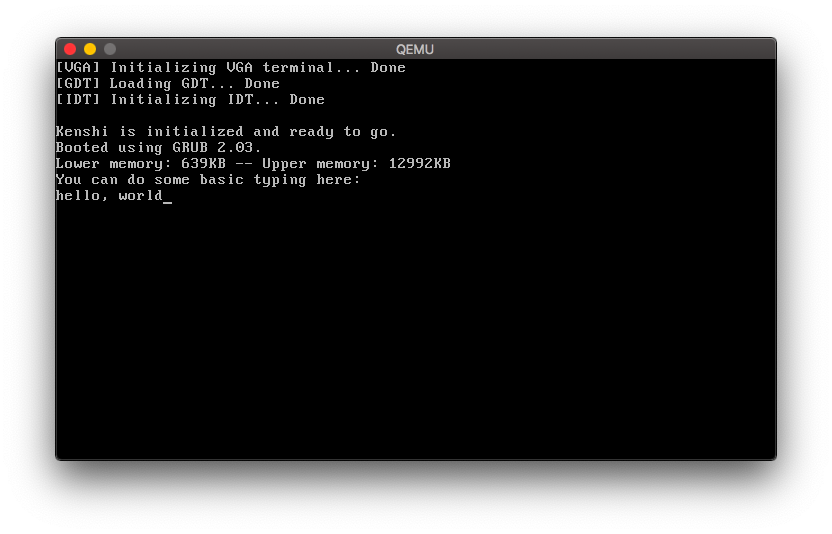
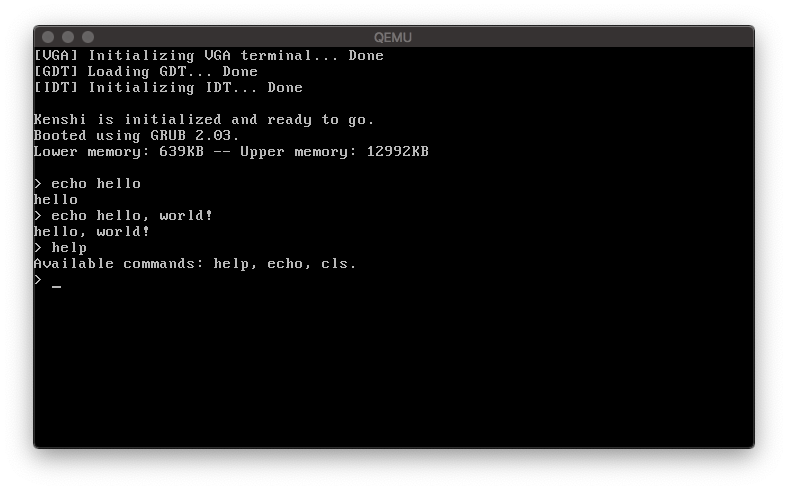
feat: add a small 'shell' with a few commands

Changed region(s): [[0.0305, 0.0306, 0.9746, 0.949], [0.2741, 0.5204, 0.4264, 0.551]]

diff --git a/src/keyboard.c b/src/keyboard.c
@@ -51,7 +51,10 @@ char keymap[128] = {
     VK_F11,  VK_F12,
 };
 
-static char add_shift(char c) {
+static char translate(char c) {
+	if (!shift_held)
+		return c;
+
 	char *digits = ")!@#$%^*(";
 
 	if (isdigit(c)) {
@@ -90,6 +93,14 @@ static char add_shift(char c) {
 	return c;
 }
 
+// Keeping track of the last character entered via the keyboard.
+static volatile char last_write = 0;
+// Keeping track of whether kb_getc is currently waiting for a character to read.
+static volatile bool pending = false;
+// Keeping track of how many characters have been read with kb_gets, so that BACKSPACE
+// can not go too far back.
+static volatile size_t counter = 0;
+
 // Handle keyboard IRQ
 void keyboard_handler(void) {
 	port_wb(0x20, 0x20); // EOI
@@ -111,16 +122,53 @@ void keyboard_handler(void) {
 				break;
 			}
 			default: {
-				char key = keymap[keycode];
-				if (!isprinting(key) && key != VK_ENTER && key != VK_BACKSPACE && key != VK_TAB) {
+				if (!pending) {
 					return;
 				}
-				if (shift_held) {
-					key = add_shift(key);
+
+				char key = translate(keymap[keycode]);
+				if (isprinting(key) || key == VK_ENTER || key == VK_BACKSPACE) {
+					last_write = key;
+					pending = false;
+					if (key == VK_BACKSPACE && counter > 0) {
+						vga_putc(key);
+						counter--;
+					} else if (key != VK_BACKSPACE) {
+						vga_putc(key);
+						counter++;
+					}
 				}
-				vga_putc(key);
 				break;
 			}
 		}
 	}
+}
+
+static void kb_flush(void) {
+	counter = 0;
+}
+
+char kb_getc(void) {
+	pending = true;
+	while (pending) {}
+	return last_write;
+}
+
+size_t kb_gets(char *buf, size_t buf_size) {
+	kb_flush();
+	char *start = buf;
+	char c;
+	size_t len = 0;
+	while ((c = kb_getc()) != '\n' && len < buf_size - 1) {
+		if (c == '\b' && buf > start) {
+			*buf = 0;
+			buf--;
+		} else {
+			*buf = c;
+			buf++;
+			len++;
+		}
+	}
+	kb_flush();
+	return len;
 }

diff --git a/src/string.c b/src/string.c
@@ -1,9 +1,68 @@
 #include "string.h"
+#include "math.h"
 
-// Calculates the length of a null-terminated string.
 size_t strlen(const char *str) {
 	size_t len = 0;
 	while (str[len])
 		len++;
 	return len;
+}
+
+bool strchr(const char *str, char c) {
+	for (size_t i = 0; str[i]; i++) {
+		if (str[i] == c) {
+			return true;
+		}
+	}
+
+	return false;
+}
+
+static char *last_strtok_str = NULL;
+char *strtok(char *str, char *delim) {
+	if (str == NULL && last_strtok_str == NULL) {
+		return NULL;
+	}
+
+	if (str == NULL) {
+		str = last_strtok_str;
+	}
+
+	// Skip and delim chars at the beginning of the string.
+	while (strchr(delim, *str)) {
+		str++;
+	}
+
+	char *start = str;
+
+	// Now skip all characters until the next delim is found.
+	while (!strchr(delim, *str)) {
+		str++;
+	}
+
+	// Indicate end of token with NUL.
+	*str = 0;
+	last_strtok_str = str + 1;
+
+	return start;
+}
+
+uint32_t strcmp(const char *str1, const char *str2) {
+	size_t len1 = strlen(str1);
+	size_t len2 = strlen(str2);
+	size_t len = max(len1, len2);
+	for (size_t i = 0; i < len; i++) {
+		if (i >= len1) {
+			return -1;
+		} else if (i >= len2) {
+			return 1;
+		} else {
+			char diff = str1[i] - str2[i];
+			if (diff != 0) {
+				return diff;
+			}
+		}
+	}
+
+	return 0;
 }

diff --git a/src/kernel.c b/src/kernel.c
@@ -1,8 +1,10 @@
 #include "gdt.h"
 #include "idt.h"
+#include "keyboard.h"
 #include "multiboot.h"
 #include "serial.h"
 #include "stdio.h"
+#include "string.h"
 #include "vga.h"
 
 void kmain_early(void) {
@@ -35,8 +37,22 @@ void kmain(multiboot_info *mb) {
 		printf("Lower memory: %luKB -- Upper memory: %luKB\n", mb->mem_lower, mb->mem_upper);
 	}
 
-	printf("You can do some basic typing here:\n");
-
-	// Endless loop in which interrupts can happen.
-	while (true) {}
+	printf("\nEnter `help' for a list of commands.\n");
+	while (true) {
+		char buffer[80] = {0};
+		printf("> ");
+		kb_gets(buffer, 80);
+		char *command = strtok(buffer, " \n");
+		if (strcmp(command, "help") == 0) {
+			printf("Available commands: help, echo, cls.\n");
+		} else if (strcmp(command, "cls") == 0) {
+			vga_init();
+		} else if (strcmp(command, "echo") == 0) {
+			char *text = command + 5;
+			printf("%s\n", text);
+		} else {
+			printf("Unknown command `%s'.\n", command);
+			printf("Enter `help' for a list of commands.\n");
+		}
+	}
 }

diff --git a/src/include/string.h b/src/include/string.h
@@ -1,5 +1,19 @@
 #pragma once
 
+#include <stdbool.h>
 #include <stddef.h>
+#include <stdint.h>
 
+// Calculates the length of a null-terminated string.
 size_t strlen(const char *str);
+
+// Split a string into tokens, by replacing the delimiters with NUL.
+// Return value is the start of the token, end of the token is represented by NUL.
+char *strtok(char *str, char *delim);
+
+// Checks if char is included in a string.
+bool strchr(const char *str, char c);
+
+// Compare two strings.
+// Sign of the return value is the sign of the difference; 0 if equal.
+uint32_t strcmp(const char *str1, const char *str2);

diff --git a/src/include/keyboard.h b/src/include/keyboard.h
@@ -1,0 +1,13 @@
+#pragma once
+
+#include <stddef.h>
+
+// Receive one character from the keyboard
+char kb_getc(void);
+
+// Receive one line (delimited by a \n) from the keyboard.
+// Returns number of chars read.
+void kb_gets(char *buf, size_t buf_size);
+
+// Clear the input buffer
+void kb_flush(void);

diff --git a/src/include/math.h b/src/include/math.h
@@ -1,0 +1,9 @@
+#pragma once
+
+#include <stdint.h>
+
+// Get the smaller one of two values.
+uint32_t min(uint32_t l, uint32_t r);
+
+// Get the larger one of two values.
+uint32_t max(uint32_t l, uint32_t r);

diff --git a/src/math.c b/src/math.c
@@ -1,0 +1,9 @@
+#include "math.h"
+
+inline uint32_t min(uint32_t l, uint32_t r) {
+	return l < r ? l : r;
+}
+
+inline uint32_t max(uint32_t l, uint32_t r) {
+	return l > r ? l : r;
+}

diff --git a/README.md b/README.md
@@ -14,10 +14,11 @@ Uses the GRUB bootloader, but theoretically works with any bootloader that suppo
 - Serial port input and output
 - Interrupt/exception handling
 - Support for basic input via keyboard
+- Very basic shell
 
 ### Planned
 - Mouse support
-- Shell
+- Advanced shell
 - File system
 
 ...and many more!
